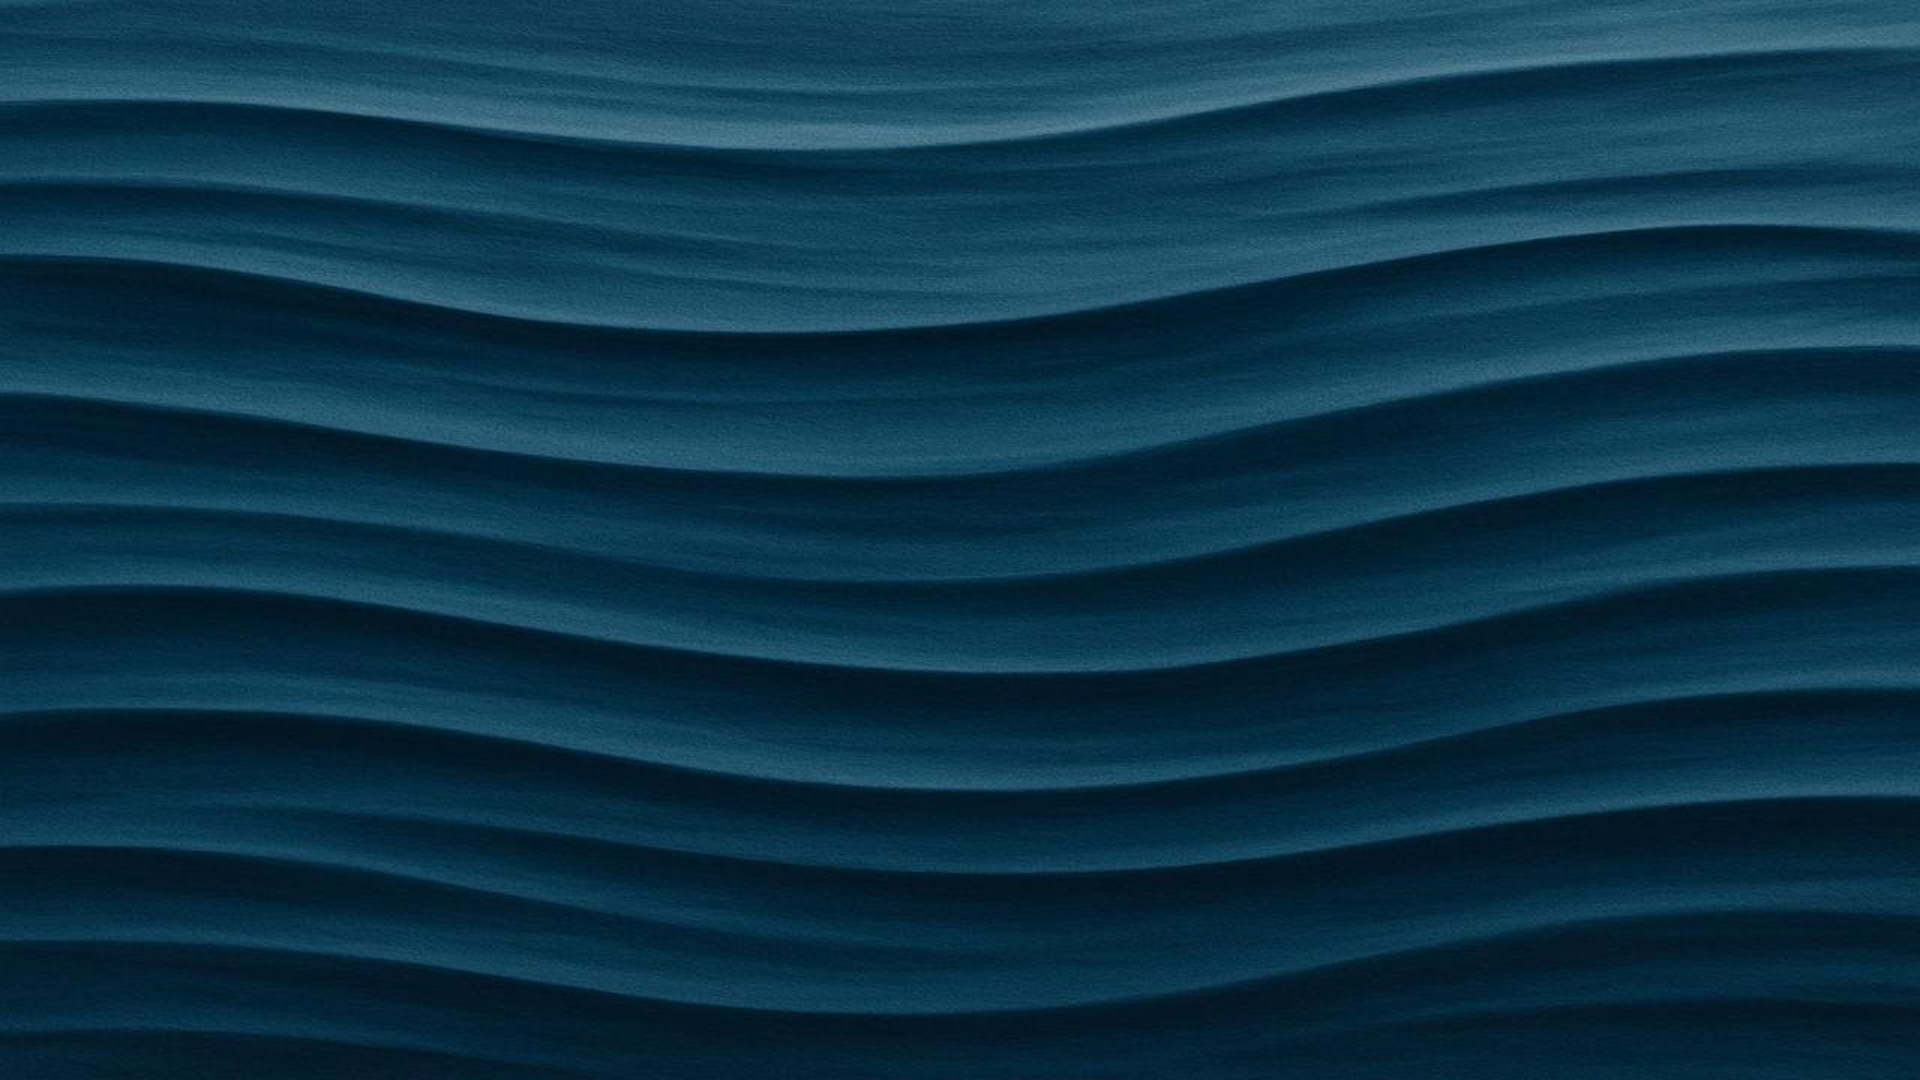
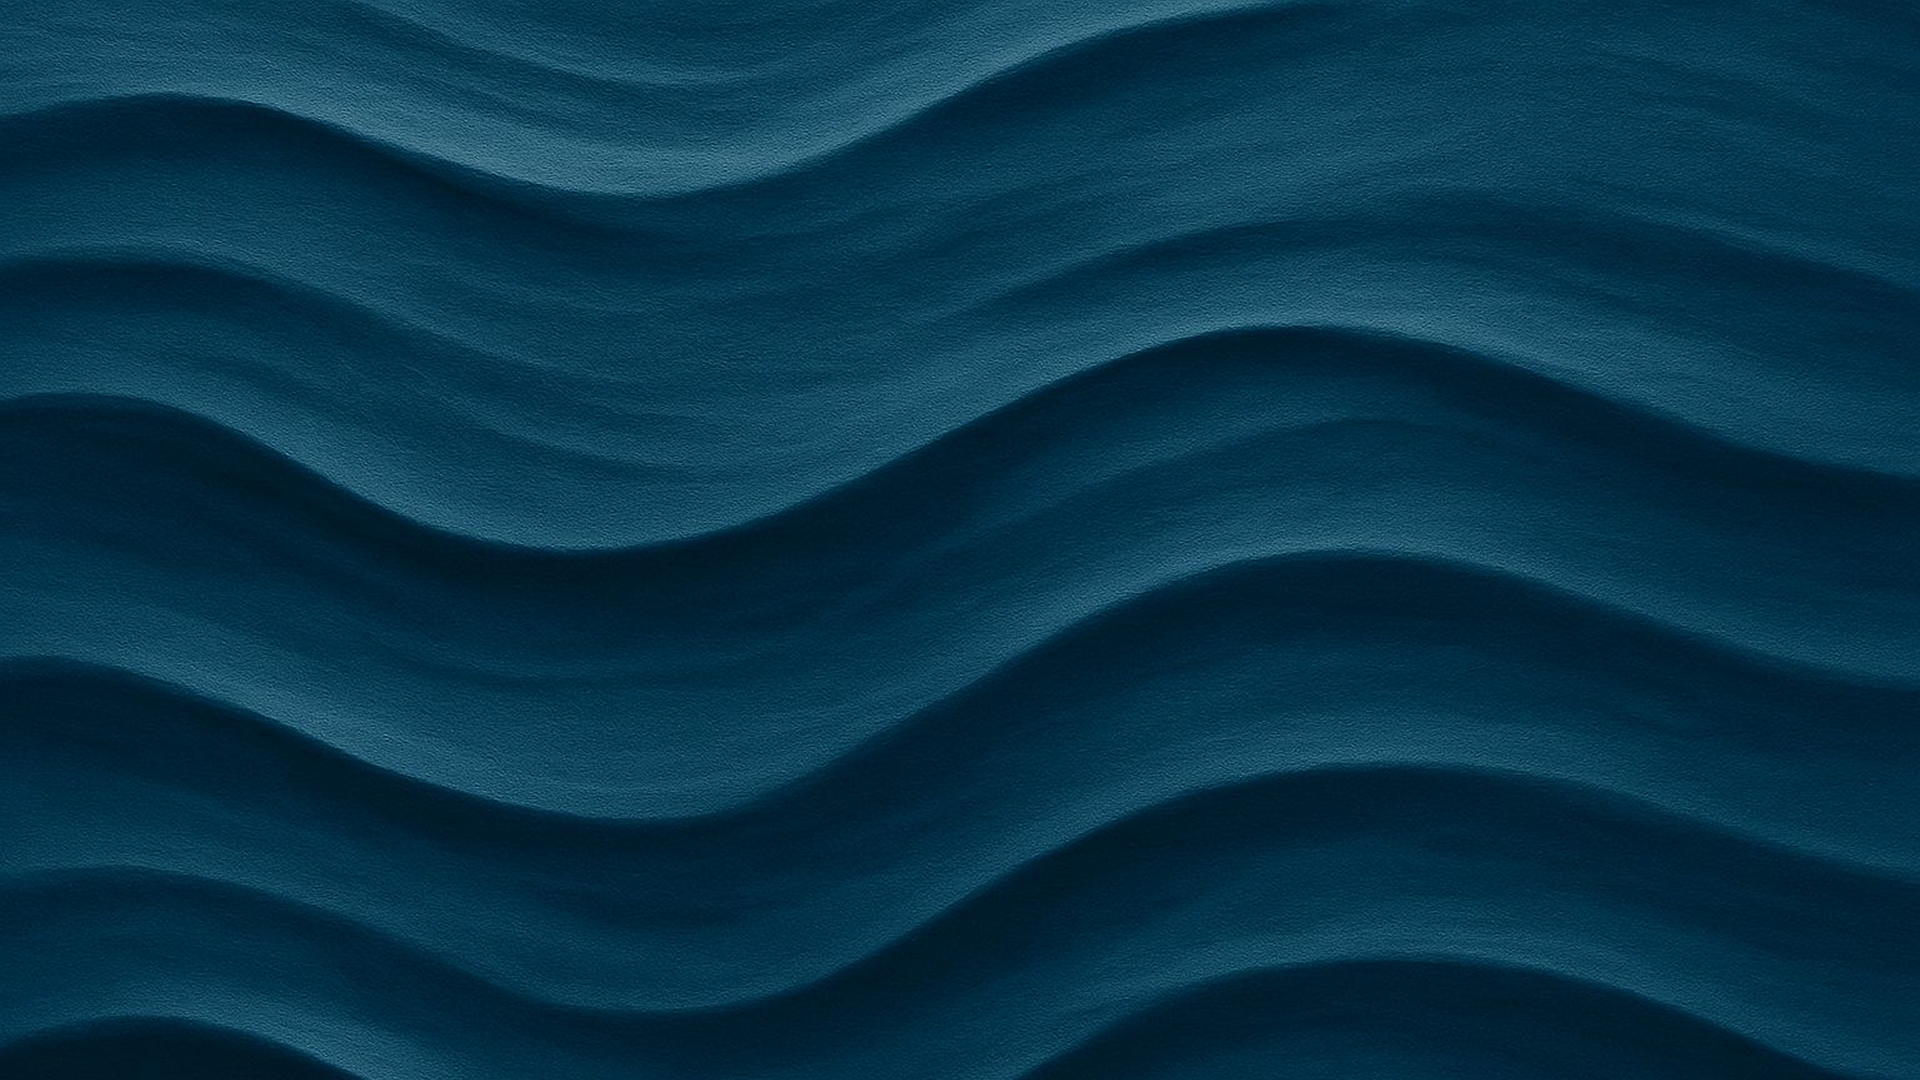
Responsividade 1920x1080

diff --git a/styles.css b/styles.css
@@ -61,6 +61,10 @@ body {
     z-index: -1;
 }
 
+.inicio__fundo-desktop {
+    display: none;
+}
+
 .inicio__CarolAndre {
     position: fixed;
     display: flex;
@@ -749,5 +753,185 @@ footer {
 
     .footer__lucas__redes__rede {
         width: 200%;
+    }
+}
+
+@media screen and (min-width: 1920px) {
+    .inicio__video-bg {
+        display: none;
+    }
+
+    .inicio__fundo-desktop {
+        display: block;
+        position: fixed;
+        top: 0;
+        left: 0;
+        width: 100vw;
+        height: 100vh;
+        object-fit: cover;
+        z-index: -1;
+    }
+
+    .logo__AC {
+        width: 6%;
+        padding: 2vh;
+    }
+
+    .inicio {
+        padding: 25vh 5vh 50vh;
+    }
+
+    .inicio__CarolAndre {
+        padding: 6vh 0 0;
+    }
+
+    .inicio__CarolAndre__texto {
+        font-size: 9rem;
+    }
+
+    .inicio__fotos {
+        grid-template-columns: 67.2px 67.2px 67.2px 67.2px 67.2px 67.2px 67.2px 67.2px 67.2px 67.2px 67.2px 67.2px 67.2px 67.2px 67.2px 67.2px 67.2px 67.2px;
+        grid-template-rows: 84px 84px 84px 84px 84px 84px 84px 84px 84px 84px 84px 84px 84px 84px;
+    }
+
+    .inicio__fotos__foto1 {
+        width: 504px;
+        grid-area: 1 / 7 / 7 / 10;
+    }
+
+    .inicio__fotos__foto2 {
+        width: 453.6px;
+        grid-area: 8 / 12 / 11 / 11;
+    }
+    
+    .inicio__fotos__foto3 {
+        width: 504px;
+        grid-area: 5 / 2 / 6 / 4;
+    }
+
+    .convite__salmo {
+        font-size: 1.75rem;
+        padding: 10vh 0 0;
+    }
+
+    .convite__convidamos {
+        font-size: 1.75rem;
+        padding: 19.5vh 12.5vh;
+    }
+
+    .convite__pais {
+        font-size: 1.75rem;
+        padding: 0 7.5vh 0 5vh;
+    }
+
+    .convite__data-local {
+        padding: 0 65vh 15vh;
+    }
+
+    .convite__data-local__data {
+        font-size: 4rem;
+        padding: 10vh 0 0;
+    }
+
+    .convite__data-local__local {
+        font-size: 1.75rem;
+    }
+
+    .presenca {
+        padding: 10vh 0 5vh;
+    }
+
+    .presenca__container {
+        padding: 15vh 0 0;
+    }
+
+    .presenca__container__titulo {
+        font-size: 4rem;
+    }
+
+    .presenca__textbox {
+        font-size: 1.5rem;
+        padding: 1.25vh 1vh;
+        width: 80%;
+    }
+
+    .presenca__botao {
+        font-size: 1.75rem;
+        padding: 1vh 7vh;
+    }
+
+    .presenca__texto-secundario {
+        padding: 8vh 0 10vh;
+    }
+
+    .presenca__texto-secundario__titulo {
+        font-size: 3.75rem;
+    }
+
+    .presenca__texto-secundario__texto {
+        font-size: 1.75rem;
+    }
+
+    .presenca__contador__texto {
+        font-size: 3.5rem;
+    }
+
+    .presenca__contador__dias {
+        font-size: 9rem;
+        padding: 0 0 8vh;
+    }
+
+    .presentes-mensagem {
+
+    }
+
+    .presentes-mensagem__titulo {
+        font-size: 6rem;
+        padding: 10vh 0 0;
+        line-height: 1;
+    }
+
+    .presentes-mensagem__texto {
+        font-size: 2.5rem;
+        padding: 10vh 40vh;
+        line-height: 1.7;
+    }
+
+    .presentes-mensagem__botao {
+        font-size: 2.25rem;
+        padding: 1.25vh 9vh;
+        margin: 0;
+    }
+
+    .final__container__container {
+        padding: 0 0 10%;
+    }
+
+    .final__container__texto {
+        font-size: 6rem;
+    }
+
+    .footer__logo {
+        width: 45%;
+    }
+
+    .footer__lucas {
+        padding: 10% 0 1%;
+    }
+
+    .footer__lucas__texto {
+        font-size: 2rem;
+    }
+
+    .footer__lucas__redes {
+        gap: 22vh;
+    }
+
+    .footer__lucas__redes__rede {
+        width: 300%;
+    }
+
+    .footer__lucas__copyright {
+        font-size: 1.25rem;
     }
 }

diff --git a/styles-presentes.css b/styles-presentes.css
@@ -266,3 +266,76 @@ body {
 
     .footer__lucas__copyright {}
 }
+
+@media screen and (min-width: 1920px) {
+    .header__botao {
+        width: 3%;
+        margin: 5vh 0 0 10vh;
+    }
+
+    .logoo {
+        padding: 2vh 5% 8vh;
+    }
+
+    .logo__desenho {
+        width: 8%;
+    }
+
+    .presentes {
+        margin: 0 12%;
+    }
+
+    .presentes__container {
+        padding: 1.5%;
+        width: 22%;
+        margin: 0 2% 7%;
+        text-align: center;
+        align-items: center;
+    }
+
+    .presentes__container__texto {
+        font-size: 1.5rem;
+        padding: 3% 0 0;
+        width: 110%;
+        text-align: center;
+        display: block;
+    }
+
+    .presentes__container__preco {
+        padding: 8% 0;
+        font-size: 1.75rem;
+    }
+
+    .presentes__container__botao {
+        margin: 0;
+        font-size: 1.75rem;
+        padding: 4% 38%;
+        line-height: 1.3;
+    }
+
+    .footer__presentes {
+        margin: 0 0;
+        padding: 1% 0 0.5%;
+    }
+
+    .footer__lucas {
+        padding: 0;
+    }
+
+    .footer__lucas__texto {
+        font-size: 1.75rem;
+    }
+
+    .footer__lucas__redes {
+        gap: 22vh;
+        padding: 0.5% 0;
+    }
+
+    .footer__lucas__redes__rede {
+        width: 300%;
+    }
+
+    .footer__lucas__copyright {
+        font-size: 1.5rem;
+    }
+}

diff --git a/paginas-individuais-presentes/styles.css b/paginas-individuais-presentes/styles.css
@@ -172,3 +172,41 @@ footer {
         font-size: 1.75rem;
     }
 }
+
+@media screen and (min-width: 1920px) {
+    .presente-individual {
+        padding: 5vh 0;
+    }
+
+    .presente-individual__imagem {
+        width: 20%;
+        margin: 0 0 1.5%;
+    }
+
+    .presente-individual__descricao {
+        font-size: 2.25rem;
+        width: 40%;
+        margin: 0 0 5%;
+    }
+
+    .presente-individual__pix {
+        margin: 0 0 2%;
+    }
+
+    .presente-individual__pix__imagem {
+        width: 25%;
+    }
+
+    .presente-individual__qrcode__imagem {
+        width: 20%;
+    }
+
+    .presente-individual__qrcode__ou {
+        font-size: 1.5rem;
+        padding: 0 0 0.5%;
+    }
+
+    .presente-individual__qrcode__telefone {
+        font-size: 3rem;
+    }
+}

diff --git a/index.html b/index.html
@@ -17,6 +17,7 @@
   <body>
     <section class="inicio">
       <video src="assets/video_fundo.mp4" class="inicio__video-bg" autoplay muted loop playsinline></video>
+      <img src="assets/fundos-desktop/fundo-inicial-desktop.png" alt="Fundo inicial" class="inicio__fundo-desktop">
       
       <div class="inicio__CarolAndre">
         <h1 class="inicio__CarolAndre__texto">CAROLINA <br>& ANDRÉ</h1>
